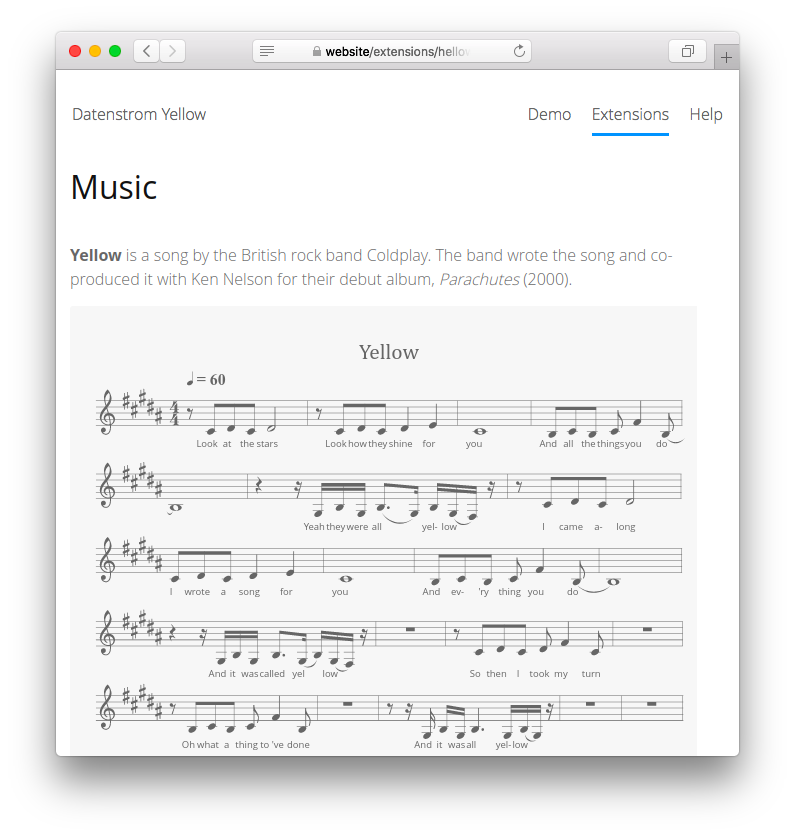
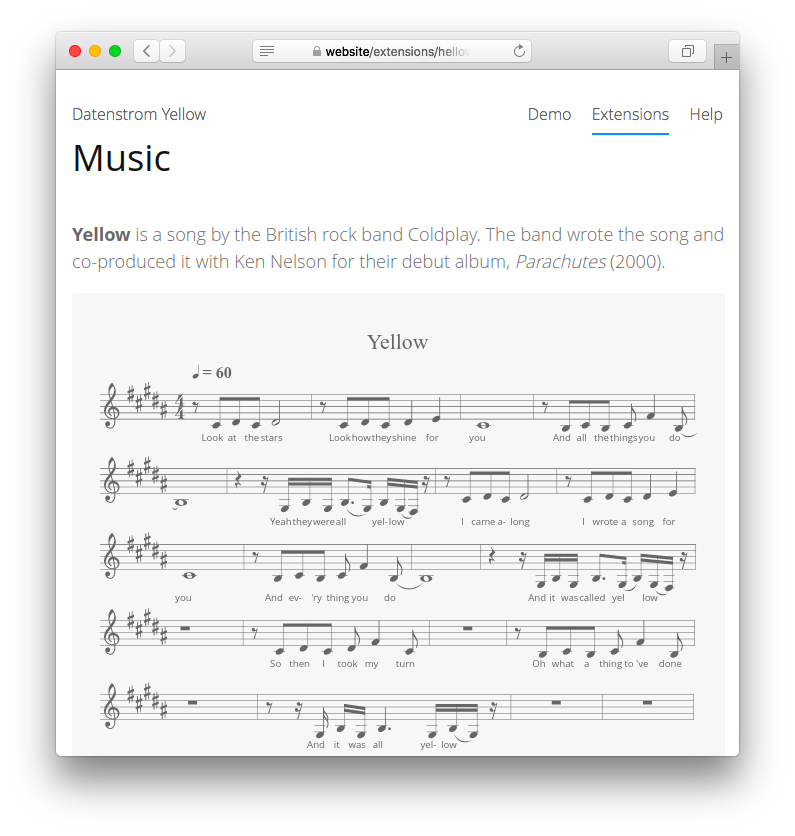
Fixed score

Changed region(s): [[0.1208, 0.4354, 0.8755, 0.9019], [0.0906, 0.1555, 0.9057, 0.3421], [0.4528, 0.4043, 0.5434, 0.4354]]

diff --git a/README.md b/README.md
@@ -20,20 +20,20 @@ A simple musical score in ABC notation:
     L: 1/8
     K: B
     %%vocalfont Open Sans 9
-    z CDC D4 | z CDC D2 E2 | C8 | B,CB, C F2 (B, | 
+    z CDC D4 | z CDC D2 E2 | C8 | z B,CB, C F2 (B, | 
     w: Look at the stars | Look how they shine for you | And all the things you do
-    B),8 | z2 z/ G,/B,/G,/ (B,>G,) B,/(G,/F,/) z/| z CDC D4 | 
-    w: | Yeah they were all * yel-low* | I came a-long
-    CDC D2 E2 | C8 | B,CB, C F2 (B, | B,8) | 
-    w: I wrote a song for | you | And ev-'ry thing you do *
-    z2 z/ G,/B,/G,/ B,>(G, B,)/(G,/F,/) z/| z8 | z CDC D F2 C | z8 | 
-    w: And it was called yel*low* | So then I took my turn
-    z B,CB, C F2 B, | z8 | z z/ G,/ B,/G,/ B,3 G,/(B,/G,/) z/ | z8 | z8 | 
-    w: Oh what a thing to~'ve done | And it was all yel-low*
+    B),8 | z2 z/ G,/B,/G,/ (B,>G,) B,/(G,/F,/) z/| z CDC D4 | z CDC D2 E2 | 
+    w: | Yeah they were all * yel-low * | I came a-long | I wrote a song for
+    C8 | z B,CB, C F2 (B, | B,8) | z2 z/ G,/B,/G,/ B,>(G, B,)/(G,/F,/) z/| 
+    w: you | And ev-'ry thing you do * | And it was called yel * low *
+    z8 | z CDC D F2 C | z8 | z B,CB, C F2 B, | 
+    w: So then I took my turn | Oh what a thing to~'ve done
+    z8 | z z/ G,/ B,/G,/ B,3 G,/(B,/G,/) z/ | z8 | z8 | 
+    w: And it was all yel-low* | 
     z2 B,2(G3F) | z B,B,F FD D2 | z2 B,2(G3F) | z B,B,F FD D2 | 
-    w: Your skin* | Oh yeah your skin and bones | Turn in-*to | some-thing beau-ti-ful
-    z2 B,2(G3F) | z B,B,F FD (D2 | G,8) | z B,B,F FD (D2 | F,8)|
-    w: You know* You know I love you so* You know I love you so*
+    w: Your skin* | Oh yeah your skin and bones | Turn in-* | to some-thing beau-ti-ful
+    z2 B,2(G3F) | z B,B,F FD (D2 | G,8) | z B,B,F FD (D2 | F,8)| 
+    w: You know * | You know I love you so | * | You know I love you so *
     ```
 
 ## Installation
